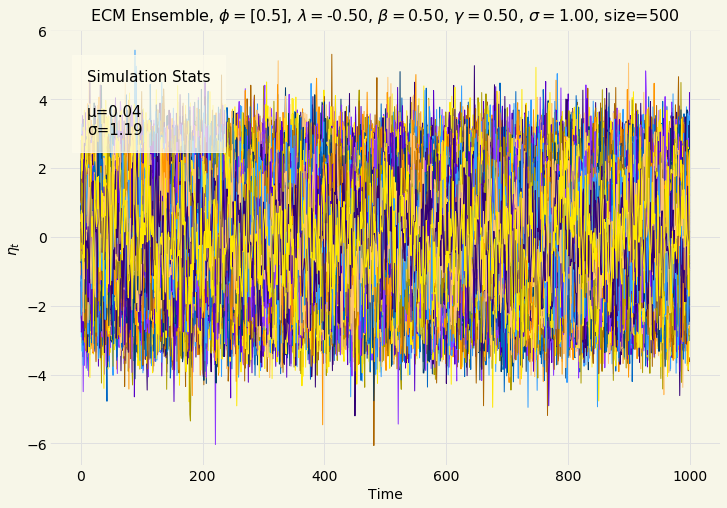
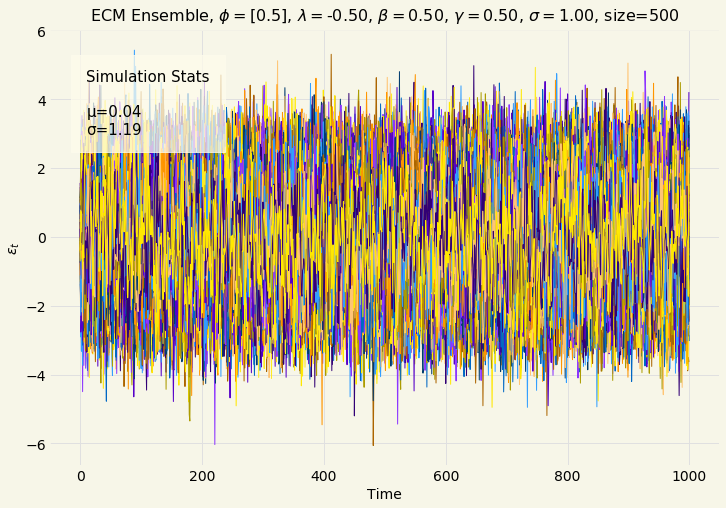
more plot updates

diff --git a/hydrogen_notebooks/algorithmic_trading/mean_reversion/ecm_properties.py b/hydrogen_notebooks/algorithmic_trading/mean_reversion/ecm_properties.py
@@ -120,7 +120,7 @@ for i in range(m):
 
 title = f"ECM Ensemble, " + r"$\phi=$" + f"{numpy.array2string(arima_params['φ'], precision=2, separator=',')}, " + r"$\lambda=$" + f"{format(ecm_params['λ'], '2.2f')}, " + r"$\beta=$" + f"{format(ecm_params['β'], '2.2f')}, " + r"$\gamma=$" + f"{format(ecm_params['γ'], '2.2f')}, " + r"$\sigma=$" + f"{format(ecm_params['σ'], '2.2f')}, size={m}"
 plot_name = f"ecm_properties_ensemble_ε_t{image_postfix}"
-ylab = r"$\eta_t$"
+ylab = r"$\varepsilon_t$"
 ensemble_plot(εt, [10.0, 3.0], title, ylab, plot_name)
 
 # %%
@@ -129,6 +129,14 @@ mean = stats.ensemble_mean(xt)
 title = f"ECM Ensemble μ, " + r"$\phi=$" + f"{numpy.array2string(arima_params['φ'], precision=2, separator=',')}, " + r"$\lambda=$" + f"{format(ecm_params['λ'], '2.2f')}, " + r"$\beta=$" + f"{format(ecm_params['β'], '2.2f')}, " + r"$\gamma=$" + f"{format(ecm_params['γ'], '2.2f')}, " + r"$\sigma=$" + f"{format(ecm_params['σ'], '2.2f')}, size={m}"
 plot_name = f"ecm_properties_ensemble_x_t_μ{image_postfix}"
 label = r"$\mu_{x_t}$"
+ensemble_average_plot(mean, title, label, plot_name)
+
+# %%
+
+mean = stats.ensemble_mean(yt)
+title = f"ECM Ensemble μ, " + r"$\phi=$" + f"{numpy.array2string(arima_params['φ'], precision=2, separator=',')}, " + r"$\lambda=$" + f"{format(ecm_params['λ'], '2.2f')}, " + r"$\beta=$" + f"{format(ecm_params['β'], '2.2f')}, " + r"$\gamma=$" + f"{format(ecm_params['γ'], '2.2f')}, " + r"$\sigma=$" + f"{format(ecm_params['σ'], '2.2f')}, size={m}"
+plot_name = f"ecm_properties_ensemble_y_t_μ{image_postfix}"
+label = r"$\mu_{y_t}$"
 ensemble_average_plot(mean, title, label, plot_name)
 
 # %%
